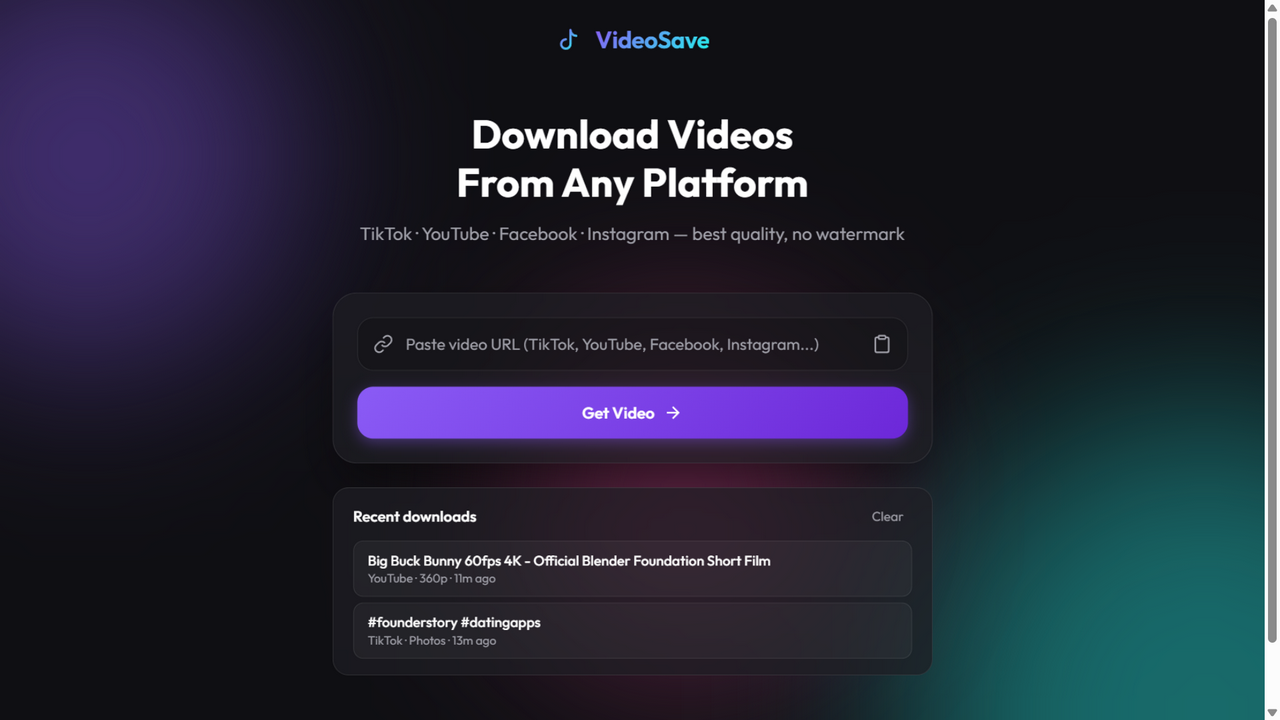
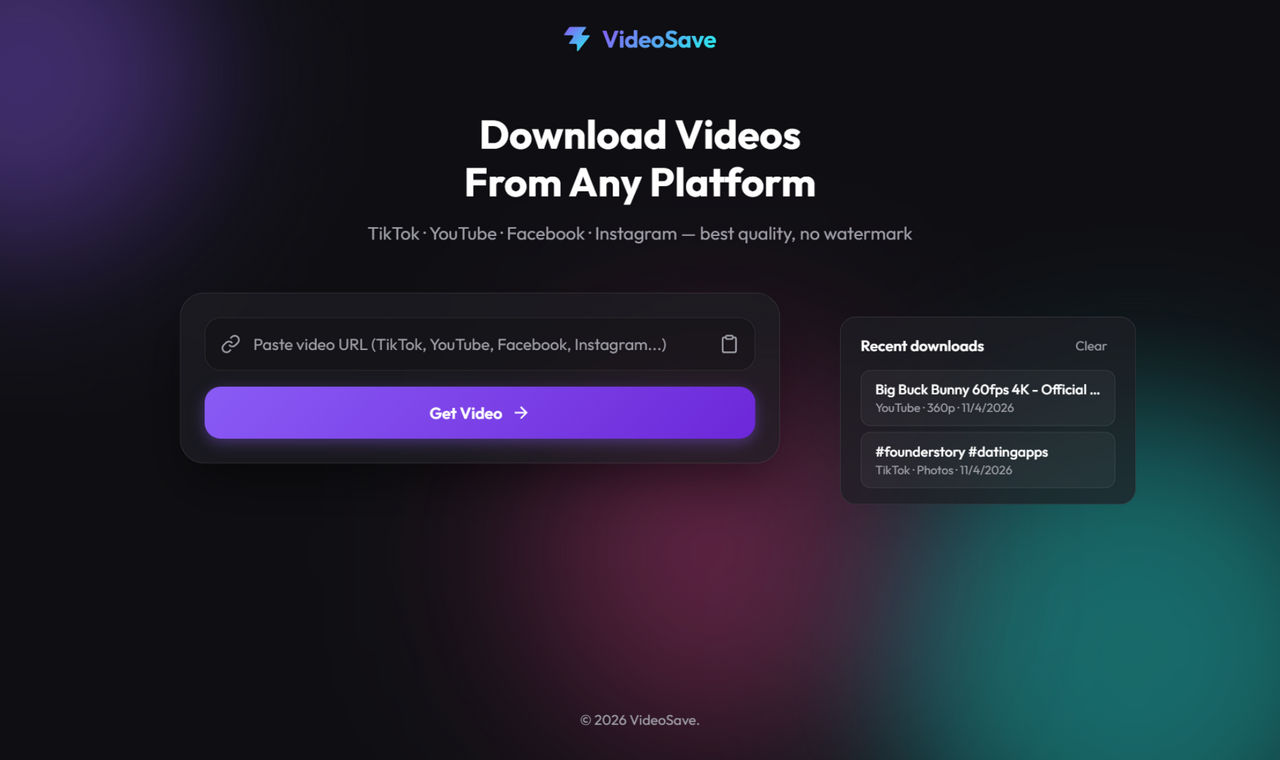
Move download history to a right sidebar column
- Desktop (>=1024px): two-column grid, sticky history aside on the right
- History empty: sidebar collapses, main column stays centered
- Mobile: history stacks below the main flow
- README screenshots re-captured for the new layout

diff --git a/index.html b/index.html
@@ -45,7 +45,9 @@
         <p class="subtitle">TikTok · YouTube · Facebook · Instagram — best quality, no watermark</p>
       </div>
 
-      <div class="search-box">
+      <div class="app-columns">
+        <div class="main-column">
+          <div class="search-box">
         <form id="download-form">
           <div class="input-group">
             <svg class="link-icon" viewBox="0 0 24 24" fill="none" stroke="currentColor" stroke-width="2">
@@ -74,14 +76,18 @@
           <p>Extracting video information...</p>
         </div>
         <div id="error-message" class="error hidden"></div>
-      </div>
+          </div>
 
-      <!-- Download history (localStorage) -->
-      <div id="history-container" class="history-box hidden"></div>
+          <!-- Result Container -->
+          <div id="result-container" class="result-box hidden">
+            <!-- Populated by JS -->
+          </div>
+        </div>
 
-      <!-- Result Container -->
-      <div id="result-container" class="result-box hidden">
-        <!-- Populated by JS -->
+        <aside id="history-panel" class="history-aside">
+          <!-- Download history (localStorage) -->
+          <div id="history-container" class="history-box hidden"></div>
+        </aside>
       </div>
     </main>
 

diff --git a/src/main.ts b/src/main.ts
@@ -28,6 +28,8 @@ const loading = document.querySelector<HTMLDivElement>('#loading')!;
 const errorMessage = document.querySelector<HTMLDivElement>('#error-message')!;
 const resultContainer = document.querySelector<HTMLDivElement>('#result-container')!;
 const historyContainer = document.querySelector<HTMLDivElement>('#history-container')!;
+const historyPanel = document.querySelector<HTMLElement>('#history-panel')!;
+const appColumns = document.querySelector<HTMLElement>('.app-columns')!;
 
 pasteButton.addEventListener('click', pasteUrl);
 form.addEventListener('submit', handleSubmit);
@@ -478,11 +480,13 @@ function pushHistory(entry: HistoryEntry): void {
 function renderHistory(): void {
   const items = loadHistory();
   historyContainer.replaceChildren();
-  if (items.length === 0) {
-    historyContainer.classList.add('hidden');
+  const hasItems = items.length > 0;
+  historyContainer.classList.toggle('hidden', !hasItems);
+  historyPanel.hidden = !hasItems;          // collapse the sidebar column
+  appColumns.classList.toggle('no-history', !hasItems); // center the main column
+  if (!hasItems) {
     return;
   }
-  historyContainer.classList.remove('hidden');
 
   const head = document.createElement('div');
   head.className = 'history-head';

diff --git a/src/style.css b/src/style.css
@@ -121,6 +121,50 @@ header {
   align-items: center;
 }
 
+/* Two-column layout: main flow + history sidebar (desktop) */
+.app-columns {
+  display: grid;
+  grid-template-columns: minmax(0, 1fr);
+  gap: 1.5rem;
+  width: 100%;
+  justify-items: center;
+}
+
+.main-column {
+  display: flex;
+  flex-direction: column;
+  align-items: center;
+  width: 100%;
+}
+
+.history-aside {
+  width: 100%;
+}
+
+@media (min-width: 1024px) {
+  .container {
+    max-width: 1040px;
+  }
+
+  .app-columns {
+    grid-template-columns: minmax(0, 720px) 296px;
+    align-items: start;
+  }
+
+  .app-columns.no-history {
+    grid-template-columns: minmax(0, 720px);
+  }
+
+  .history-aside {
+    position: sticky;
+    top: 1.25rem;
+  }
+
+  .history-box {
+    margin-top: 0;
+  }
+}
+
 .hero {
   text-align: center;
   margin-bottom: 3rem;
@@ -574,7 +618,6 @@ header {
 /* Download history */
 .history-box {
   width: 100%;
-  max-width: 600px;
   margin-top: 1.5rem;
   background: var(--surface);
   backdrop-filter: blur(var(--glass-blur));
